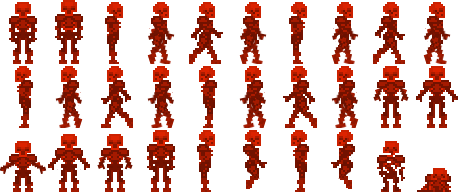
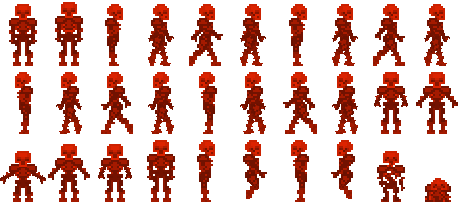
antialiasing glitches fixed

diff --git a/public_html/index.html b/public_html/index.html
@@ -7,6 +7,12 @@
 		<link rel="stylesheet" href="css/main.css" type="text/css" />
 		<link rel="icon" href="favicon.png" />
 		<script src="js/lib/createjs-2015.11.26.combined.js"></script>
+		<!-- 
+		<script src="https://code.createjs.com/easeljs-0.8.2.min.js"></script>
+		<script src="https://code.createjs.com/tweenjs-0.6.2.min.js"></script>
+		<script src="https://code.createjs.com/soundjs-0.6.2.min.js"></script>
+		<script src="https://code.createjs.com/preloadjs-0.6.2.min.js"></script>
+		 -->
 		<script src="js/mouse.js"></script>
 		<script src="js/sector.js"></script>
 		<script src="js/mapObj.js"></script>

diff --git a/public_html/js/enemy.ts b/public_html/js/enemy.ts
@@ -17,7 +17,7 @@ namespace Lich {
         static DEAD_STATE = "DEAD_STATE";
 
         static WIDTH = 46;
-        static HEIGHT = 64;
+        static HEIGHT = 68;
 
         // Collision offset
         static COLLXOFFSET = 10;
@@ -58,7 +58,7 @@ namespace Lich {
                     "height": Enemy.HEIGHT,
                     "count": 30,
                     "regY": 0,
-                    "width": Enemy.WIDTH
+                    "width": Enemy.WIDTH,
                 },
                 "animations": {
                     "idle": [0, 0, "breath", 0.005],

diff --git a/public_html/js/enemy.js b/public_html/js/enemy.js
@@ -110,7 +110,7 @@ var Lich;
         Enemy.DIE_STATE = "DIE_STATE";
         Enemy.DEAD_STATE = "DEAD_STATE";
         Enemy.WIDTH = 46;
-        Enemy.HEIGHT = 64;
+        Enemy.HEIGHT = 68;
         // Collision offset
         Enemy.COLLXOFFSET = 10;
         Enemy.COLLYOFFSET = 2;
